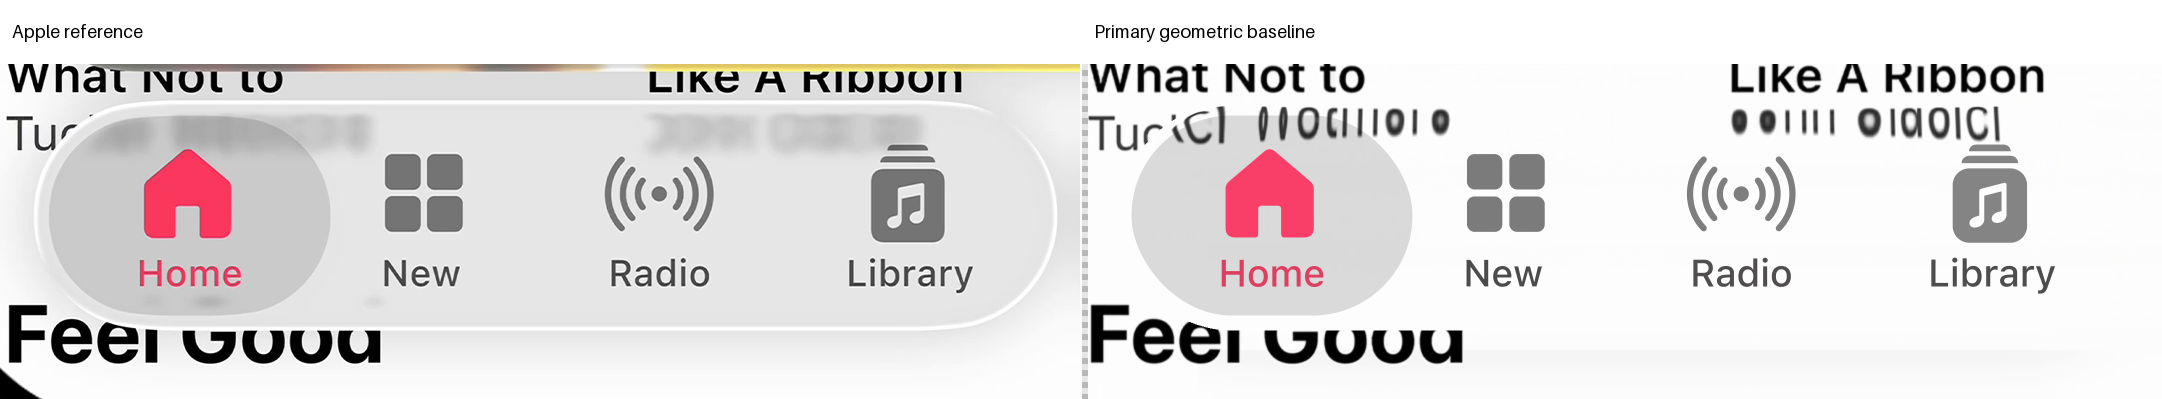
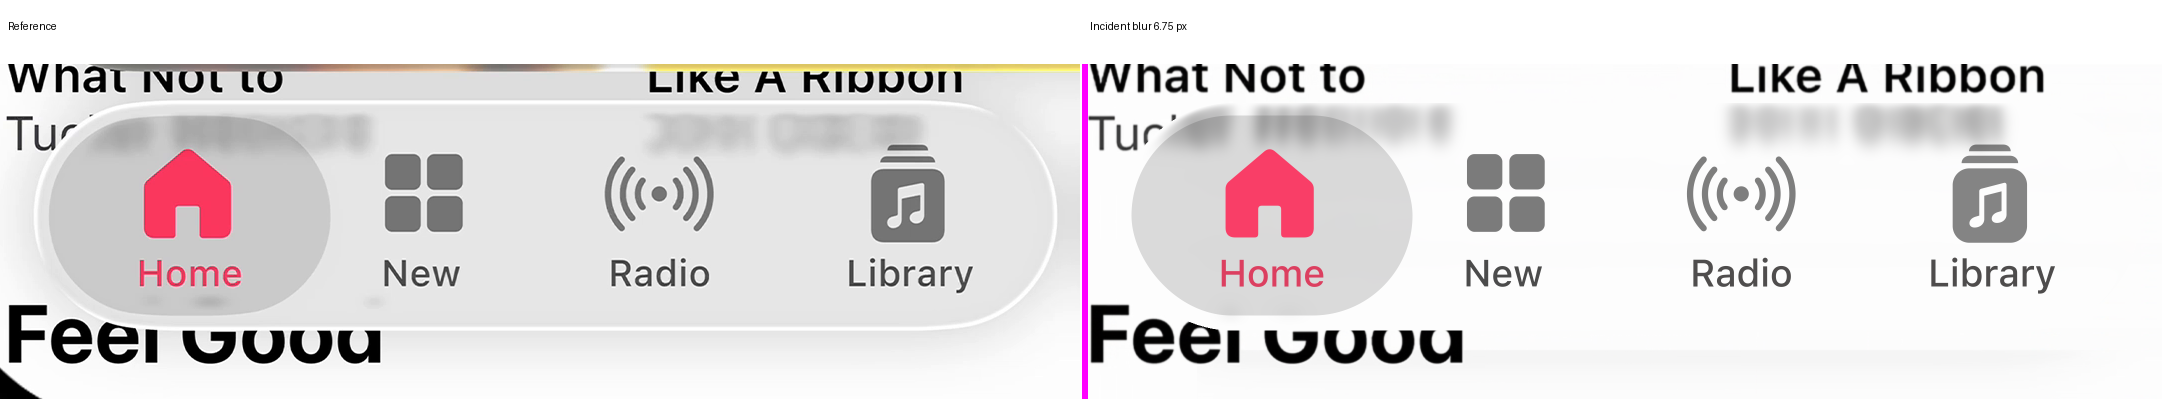
Use saved incident softness in the Navigation gallery

diff --git a/tools/format-geometric-gallery.py b/tools/format-geometric-gallery.py
@@ -27,8 +27,8 @@ pair('geometric-toolbar-primary.png',Image.open(WORK/'toolbar-target-sha.png').c
 for k in ['a','b']:
  target=Image.open(WORK/f'music-{k}-target.png')
  pair(f'geometric-expanded-primary-{k}.png',target.crop((280,290,1640,540)),np.load(ROOT/f'research/experiments/expanded-geometry-02/h1-{k}.npz')['complete'],'Incident blur 6.75 px; incomplete model')
- raw=np.load(ROOT/f'research/experiments/navigation-geometry-01/{k}-raw.npz')
- pair(f'geometric-navigation-primary-{k}.png',target.crop((285,495,1365,830)),raw['complete'],'Primary geometric baseline')
+ raw=np.load(ROOT/f'research/experiments/navigation-geometry-01/{k}-source-blur.npz')
+ pair(f'geometric-navigation-primary-{k}.png',target.crop((285,495,1365,830)),raw['complete'],'Incident blur 6.75 px; incomplete model')
 metadata=json.loads((ROOT/'guide/comparison-panels.json').read_text())
 for r in records:metadata[r['asset']]={key:r[key] for key in ['width','height','top','bottom','gutter']}
 (ROOT/'guide/comparison-panels.json').write_text(json.dumps(metadata,indent=2)+'\n')

diff --git a/reconstruction/geometric_render.py b/reconstruction/geometric_render.py
@@ -113,7 +113,10 @@ def neutral_color_response(material,gain=1.,bias=0.,highlight_lift=0.,return_pre
     Constant gain/bias includes a neutral white veil (gain=t,bias=1-t).
     Optional neutral highlight lift uses one fixed luminance smoothstep(.25,.65).
     This is an empirical color response, not a radiometric transmission claim.
-    Apply before coverage_blur; never substitute it for refraction or an outline.
+    Current pipeline: incident_source_filter first, then geometric sampling,
+    then this response before AA/foreground. coverage_blur is a historical
+    output-space comparator, not the default material-softness stage.
+    Never substitute the response for refraction or an outline.
     """
     if not np.isfinite([gain,bias,highlight_lift]).all() or gain<0:raise ValueError('Finite common tone parameters and nonnegative gain required')
     value=np.asarray(material)*gain+bias

diff --git a/research/current/state.md b/research/current/state.md
@@ -26,17 +26,17 @@ The bounded outline extension leaves residual reflected power and 20 unsupported
 | Stage | Disposition |
 | --- | --- |
 | Refraction | Three families rejected or traded A/B fidelity; no accepted optical replacement. |
-| Ordinary blur | Common output sigma 6.75 native pixels accepted within the physical diagnostic. |
+| Ordinary blur | Incident sigma 6.75 is primary; historical output filtering remains preserved. |
 | Color | Common RGB gain 0.701980827595718 and bias 0.22423217000784113 accepted as an empirical component. |
 | Outline | Limited by path/source-scene issues; no reflected image accepted. |
 | Shadow / foreground | Rejected under original paired guards. |
 | Dispersion | Not identified; no spectral model added. |
 
-Primary physical-model E is 49.12716 / 19.81851. Historical pass03 scores 5.38805 / 3.11686; its closer image fit remains archived, rather than determining the primary modeling approach.
+Primary source-filtered physical-model E is 45.42369 / 18.21982. Artwork guards and A SSIM regress versus the prior output-filtered state. Historical pass03 scores 5.38805 / 3.11686; its closer image fit remains archived, rather than determining the primary modeling approach.
 
 ## Navigation and toolbar
 
-Navigation’s primary version is the raw harmonic rounded-rectangle baseline. Its incident-PSF and shadow variants remain rejected or held; the nonlinear foreground chain blocked color fitting.
+Navigation’s primary version now includes its saved incident softness under the operation-order convention. Foreground guards still fail, so no numerical pass is claimed; the nonlinear foreground chain blocked color fitting.
 
 The toolbar’s primary image is its harmonic crowned-back baseline. Tone, d-stroke curvature and underside structure remain incomplete. Later closed-surface checks have no newer supported full image.
 

diff --git a/research/experiments/navigation-geometry-01/README.md b/research/experiments/navigation-geometry-01/README.md
@@ -115,3 +115,11 @@ node research/experiments/navigation-geometry-01/restore-inputs.cjs
 ```
 
 The scripts retain completed-study and clock limits. Reproduction of a new experiment requires a new output directory and protocol; do not erase sealed failures or reset their budgets. Verification recovery specifically charges the already completed A controls and does not rerun them.
+
+## Current incident-filter convention
+
+The gallery now selects the saved incident-width 6.75 result under the project operation-order rule. The historical nominal width 6.864095394610148 uses the same effective quarter-pixel seed.
+
+This is model selection, not a strict numerical pass. Body guards improve, but original foreground guards fail. The raw control and original rejections remain unchanged.
+
+[Selection receipt](incident-selection.json), [source support](blur-source-proof.json) and [all guards](blur-result.json) identify the reused evidence. No rays, RGB queries, rendering or fitting accompanied this presentation change.
